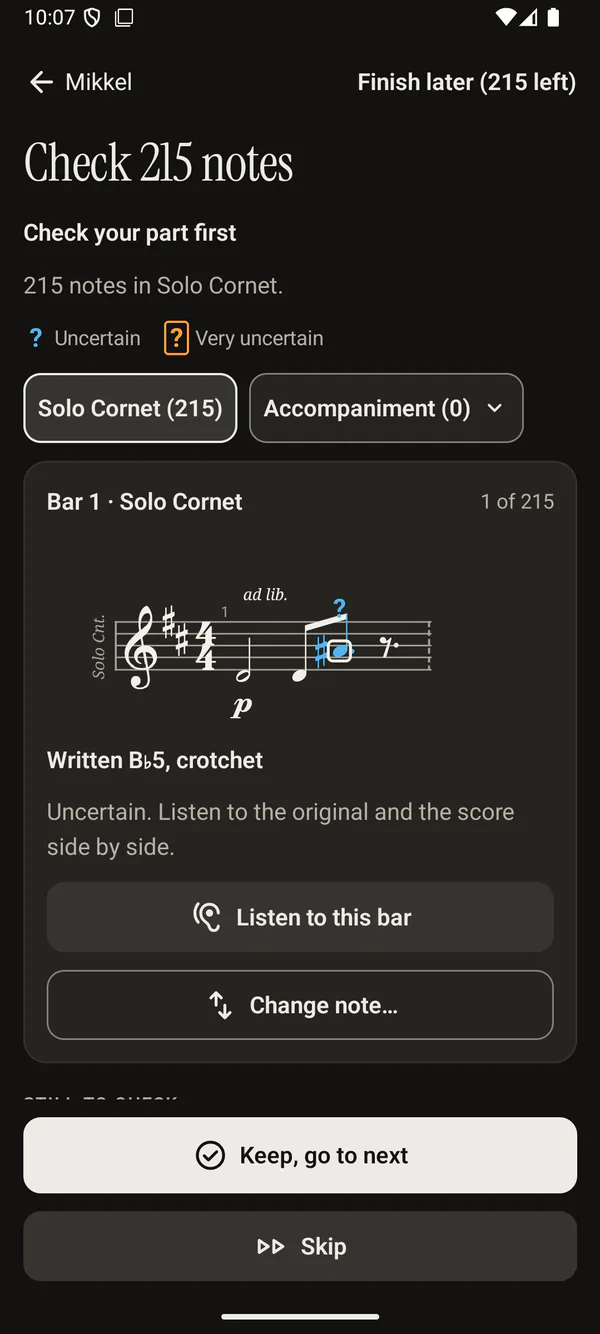
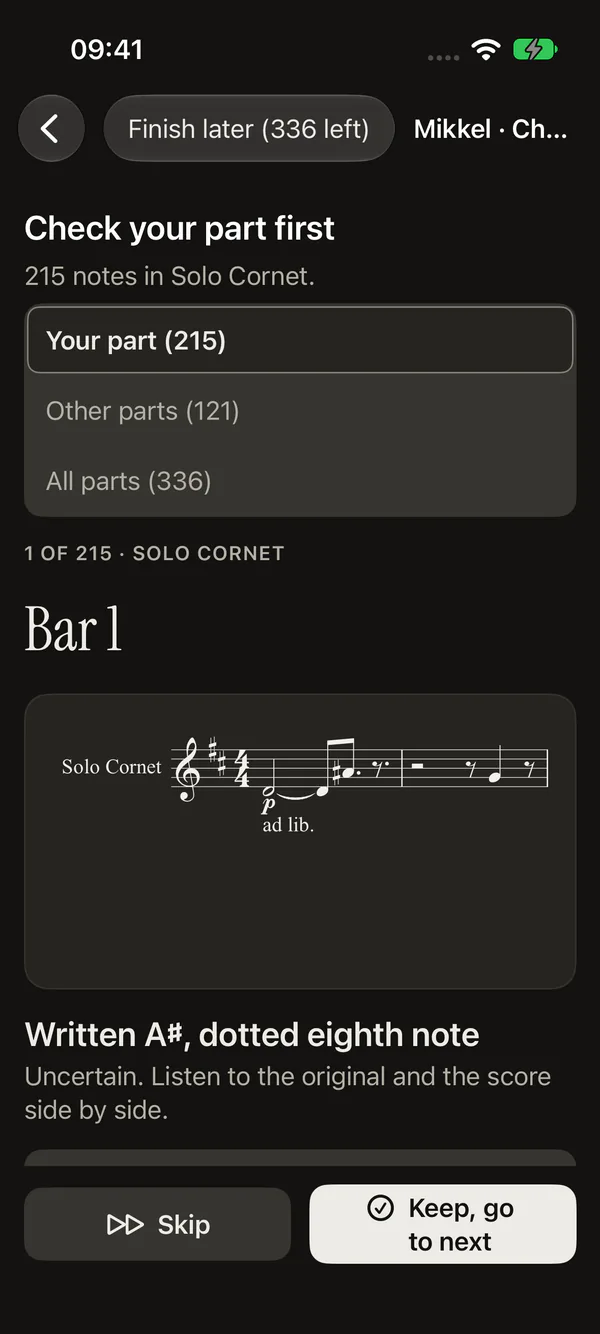
feat(site): use the restyled iPhone, iPad and macOS screenshots
The English phone story now shows iPhone, the practise section an iPad score
and the computer section the macOS window. Android keeps the Parts sheet and
the accessibility shots, and the Norwegian pages keep the Android nb shots.
shots.txt gains path variables and tablet and mac frame kinds; the macOS
capture keeps its transparent rounded corners.

diff --git a/site/index.html b/site/index.html
@@ -8,7 +8,7 @@
   <meta name="color-scheme" content="light dark">
   <meta property="og:title" content="Brasscribe Play">
   <meta property="og:description" content="A score for your band, from any recording.">
-  <meta property="og:image" content="assets/shots/computer-en-light.png">
+  <meta property="og:image" content="assets/shots/mac-score-en-light.png">
   <link rel="alternate" hreflang="en" href="./">
   <link rel="alternate" hreflang="nb" href="nb/">
   <link rel="alternate" hreflang="x-default" href="./">
@@ -63,14 +63,14 @@
           <picture>
             <source type="image/webp" media="(prefers-color-scheme: dark)" srcset="assets/shots/first-run-en-dark.webp">
             <source type="image/webp" srcset="assets/shots/first-run-en-light.webp">
-            <img src="assets/shots/first-run-en-light.png" width="600" height="1334" fetchpriority="high" alt="The first screen of the app: Scores for your band, from any recording. Three points: record or open a file, check the marked notes, practise with the band.">
+            <img src="assets/shots/first-run-en-light.png" width="600" height="1334" fetchpriority="high" alt="The first screen on iPhone: Scores for your band, from any recording. Three points: record or import, check the marked notes, practise with the band.">
           </picture>
         </div>
         <div class="device">
           <picture>
             <source type="image/webp" media="(prefers-color-scheme: dark)" srcset="assets/shots/score-en-dark.webp">
             <source type="image/webp" srcset="assets/shots/score-en-light.webp">
-            <img src="assets/shots/score-en-light.png" width="600" height="1334" alt="A brass band score on the phone, all parts, with the player below: Speed, Repeat, Count-in, Metronome and Mute my part.">
+            <img src="assets/shots/score-en-light.png" width="600" height="1334" alt="A brass band score on iPhone, all parts, with bars 12 to 13 repeating and the player below: Speed, Repeat, Count-in, Metronome, Mute my part and Recording.">
           </picture>
         </div>
       </div>
@@ -88,18 +88,18 @@
             <picture>
               <source type="image/webp" media="(prefers-color-scheme: dark)" srcset="assets/shots/home-en-dark.webp">
               <source type="image/webp" srcset="assets/shots/home-en-light.webp">
-              <img src="assets/shots/home-en-light.png" width="600" height="1334" loading="lazy" alt="Home: Open a recording, Record with the microphone, Record what's playing, Open a score and Try the demo.">
+              <img src="assets/shots/home-en-light.png" width="600" height="1334" loading="lazy" alt="Home on iPhone: Open a recording, Record with the microphone, Try the demo, and Your scores.">
             </picture>
           </div>
           <h3>Open or record</h3>
-          <p>Open a recording, record the rehearsal with the microphone, or open a score you already have. Or try the demo.</p>
+          <p>Open a recording you have, or record the rehearsal with the microphone. Or try the demo first.</p>
         </li>
         <li>
           <div class="device">
             <picture>
               <source type="image/webp" media="(prefers-color-scheme: dark)" srcset="assets/shots/what-is-this-en-dark.webp">
               <source type="image/webp" srcset="assets/shots/what-is-this-en-light.webp">
-              <img src="assets/shots/what-is-this-en-light.png" width="600" height="1334" loading="lazy" alt="What is this? Four choices: One instrument, Brass band, Soloist with orchestra or band, and Pop or rock, with where the score will be made below.">
+              <img src="assets/shots/what-is-this-en-light.png" width="600" height="1334" loading="lazy" alt="What is this? for a 4-minute recording, with four choices: One instrument, Brass band, Soloist with orchestra or band, and Pop or rock.">
             </picture>
           </div>
           <h3>What is this?</h3>
@@ -110,7 +110,7 @@
             <picture>
               <source type="image/webp" media="(prefers-color-scheme: dark)" srcset="assets/shots/making-en-dark.webp">
               <source type="image/webp" srcset="assets/shots/making-en-light.webp">
-              <img src="assets/shots/making-en-light.png" width="600" height="1334" loading="lazy" alt="Making the score: step 5 of 7, Writing down the notes, 36% and less than a minute left, with every step listed.">
+              <img src="assets/shots/making-en-light.png" width="600" height="1334" loading="lazy" alt="Making the score: step 4 of 6, Writing down the notes, 62% and about 2 minutes left, with every step listed.">
             </picture>
           </div>
           <h3>Making the score</h3>
@@ -121,7 +121,7 @@
             <picture>
               <source type="image/webp" media="(prefers-color-scheme: dark)" srcset="assets/shots/review-en-dark.webp">
               <source type="image/webp" srcset="assets/shots/review-en-light.webp">
-              <img src="assets/shots/review-en-light.png" width="600" height="1334" loading="lazy" alt="Check 215 notes, your part first: bar 1 of the Solo Cornet on a staff, written B flat 5, crotchet, uncertain. Buttons: Listen to this bar, Change note, Keep, go to next, and Skip.">
+              <img src="assets/shots/review-en-light.png" width="600" height="1334" loading="lazy" alt="Check your part first: your part, other parts or all parts. Bar 1 of the Solo Cornet on a staff, written A sharp, dotted eighth note, uncertain, with Skip and Keep, go to next.">
             </picture>
           </div>
           <h3>Check the notes</h3>
@@ -132,7 +132,7 @@
             <picture>
               <source type="image/webp" media="(prefers-color-scheme: dark)" srcset="assets/shots/output-en-dark.webp">
               <source type="image/webp" srcset="assets/shots/output-en-light.webp">
-              <img src="assets/shots/output-en-light.png" width="600" height="1334" loading="lazy" alt="How should the score be? Which band: Full brass band or Small band. How hard: Easier, A bit easier or As played. Key: C major, as recorded. Button: Show the score.">
+              <img src="assets/shots/output-en-light.png" width="600" height="1334" loading="lazy" alt="How should the score be? Which band: Full brass band or Small band. How hard: Easier, A bit easier or As played. Key: C major (concert), with Lower and Higher. Button: Show the score.">
             </picture>
           </div>
           <h3>How should the score be?</h3>
@@ -143,7 +143,7 @@
             <picture>
               <source type="image/webp" media="(prefers-color-scheme: dark)" srcset="assets/shots/part-en-dark.webp">
               <source type="image/webp" srcset="assets/shots/part-en-light.webp">
-              <img src="assets/shots/part-en-light.png" width="600" height="1334" loading="lazy" alt="The Solo Cornet part, as written for B flat, with question marks over uncertain notes and the player below.">
+              <img src="assets/shots/part-en-light.png" width="600" height="1334" loading="lazy" alt="The Solo Cornet part on iPhone, as written, with question marks over uncertain notes. Mute my part is on, and Recording switches to the original recording.">
             </picture>
           </div>
           <h3>Score and play along</h3>
@@ -154,7 +154,7 @@
             <picture>
               <source type="image/webp" media="(prefers-color-scheme: dark)" srcset="assets/shots/parts-en-dark.webp">
               <source type="image/webp" srcset="assets/shots/parts-en-light.webp">
-              <img src="assets/shots/parts-en-light.png" width="600" height="1334" loading="lazy" alt="The Parts sheet: All parts or My part, and Mute and Only this for every part.">
+              <img src="assets/shots/parts-en-light.png" width="600" height="1334" loading="lazy" alt="The Parts sheet on Android: All parts or My part, and Mute and Only this for every part.">
             </picture>
           </div>
           <h3>Your part</h3>
@@ -165,7 +165,7 @@
             <picture>
               <source type="image/webp" media="(prefers-color-scheme: dark)" srcset="assets/shots/share-en-dark.webp">
               <source type="image/webp" srcset="assets/shots/share-en-light.webp">
-              <img src="assets/shots/share-en-light.png" width="600" height="1334" loading="lazy" alt="Share or print. What: Solo Cornet (you), Every part or Conductor's score. Formats: PDF, MusicXML, Audio and more, with Print, Share and Save to Files.">
+              <img src="assets/shots/share-en-light.png" width="600" height="1334" loading="lazy" alt="Share or print on iPhone. What: My part (Solo Cornet), Every part or Conductor's score. As: PDF, Audio or more formats, with Show ? marks on. Print, Share and Save to Files.">
             </picture>
           </div>
           <h3>Share or print</h3>
@@ -182,26 +182,19 @@
         <h2 id="practise-title">Mute your part and <em>play along.</em></h2>
         <p>Every part plays back with brass sounds. Mute your own part and play it yourself, or hear one part alone.</p>
         <ul class="ticks">
-          <li><strong>Speed:</strong> anywhere from 25% to 150%, with 50%, 75% and 100% one tap away.</li>
-          <li><strong>Repeat bars</strong> 1 to 4 until the hard passage sits.</li>
+          <li><strong>Speed:</strong> anywhere from 25% to 150%.</li>
+          <li><strong>Repeat bars</strong> 12 to 13 until the hard passage sits.</li>
           <li><strong>Count-in</strong> and <strong>Metronome</strong> when you want them.</li>
           <li><strong>Mute my part</strong> so the band plays around you.</li>
           <li>On iPhone, iPad, Mac and Windows, switch to the <strong>original recording</strong> at the same place to check what the band really played.</li>
         </ul>
       </div>
-      <div class="phones">
-        <div class="device">
+      <div class="tablets">
+        <div class="device tablet">
           <picture>
-            <source type="image/webp" media="(prefers-color-scheme: dark)" srcset="assets/shots/speed-en-dark.webp">
-            <source type="image/webp" srcset="assets/shots/speed-en-light.webp">
-            <img src="assets/shots/speed-en-light.png" width="600" height="1334" loading="lazy" alt="The Speed sheet over the score: a slider at 100%, and buttons for 50%, 75% and 100%.">
-          </picture>
-        </div>
-        <div class="device">
-          <picture>
-            <source type="image/webp" media="(prefers-color-scheme: dark)" srcset="assets/shots/repeat-en-dark.webp">
-            <source type="image/webp" srcset="assets/shots/repeat-en-light.webp">
-            <img src="assets/shots/repeat-en-light.png" width="600" height="1334" loading="lazy" alt="The part while bars 1 to 4 repeat: the Repeat chip reads Repeating 1–4.">
+            <source type="image/webp" media="(prefers-color-scheme: dark)" srcset="assets/shots/practise-en-dark.webp">
+            <source type="image/webp" srcset="assets/shots/practise-en-light.webp">
+            <img src="assets/shots/practise-en-light.png" width="600" height="864" loading="lazy" alt="A brass band score on iPad with bars 12 to 13 repeating. The player below: Hear the band or Recording, Speed at 100%, Repeat bars 12 to 13 with Stop repeating, Count-in on, Metronome and Mute my part.">
           </picture>
         </div>
       </div>
@@ -281,17 +274,16 @@
         <h2 id="computer-title">Your phone, and <em>your computer.</em></h2>
         <p>Solos are made right on your phone. For a full brass band, Brasscribe on your computer does the heavy work and sends the score back to the phone over your home Wi-Fi.</p>
         <p>Open the app's settings and your computer shows up by itself. Type the six-digit code it shows, and you're connected.</p>
-        <p>On the computer itself, open any score in the browser to play it, loop bars, change the speed, and mute a part or hear one alone.</p>
+        <p>On a Mac, the whole band fits on the screen, with Mute and Only this for every part beside the score.</p>
         <div class="actions">
           <a class="button outline" href="guide/#computer">How to connect your computer</a>
         </div>
       </div>
-      <div class="window">
-        <div class="window-bar" aria-hidden="true"><i></i><i></i><i></i><span>Brasscribe Studio · Score viewer</span></div>
+      <div class="window native">
         <picture>
-          <source type="image/webp" media="(prefers-color-scheme: dark)" srcset="assets/shots/computer-en-dark.webp">
-          <source type="image/webp" srcset="assets/shots/computer-en-light.webp">
-          <img src="assets/shots/computer-en-light.png" width="1440" height="900" loading="lazy" alt="A brass band score on a computer, with Play, Repeat bars, Speed and a parts menu above the full score.">
+          <source type="image/webp" media="(prefers-color-scheme: dark)" srcset="assets/shots/mac-score-en-dark.webp">
+          <source type="image/webp" srcset="assets/shots/mac-score-en-light.webp">
+          <img src="assets/shots/mac-score-en-light.png" width="1440" height="828" loading="lazy" alt="Brasscribe Play on a Mac: the full score with bars 12 to 13 repeating, the player below with Hear the band or Recording, and every part with Mute and Only this on the right.">
         </picture>
       </div>
     </div>

diff --git a/site/guide/index.html b/site/guide/index.html
@@ -74,7 +74,7 @@
           <picture>
             <source type="image/webp" media="(prefers-color-scheme: dark)" srcset="../assets/shots/home-en-dark.webp">
             <source type="image/webp" srcset="../assets/shots/home-en-light.webp">
-            <img src="../assets/shots/home-en-light.png" width="600" height="1334" loading="lazy" alt="Home: Open a recording, Record with the microphone, Record what's playing, Open a score and Try the demo.">
+            <img src="../assets/shots/home-en-light.png" width="600" height="1334" loading="lazy" alt="Home on iPhone: Open a recording, Record with the microphone, Try the demo, and Your scores.">
           </picture>
         </div>
       </figure>
@@ -95,7 +95,7 @@
           <picture>
             <source type="image/webp" media="(prefers-color-scheme: dark)" srcset="../assets/shots/what-is-this-en-dark.webp">
             <source type="image/webp" srcset="../assets/shots/what-is-this-en-light.webp">
-            <img src="../assets/shots/what-is-this-en-light.png" width="600" height="1334" loading="lazy" alt="What is this? with its four choices, and where the score will be made.">
+            <img src="../assets/shots/what-is-this-en-light.png" width="600" height="1334" loading="lazy" alt="What is this? for a 4-minute recording, with its four choices.">
           </picture>
         </div>
       </figure>
@@ -122,7 +122,7 @@
           <picture>
             <source type="image/webp" media="(prefers-color-scheme: dark)" srcset="../assets/shots/making-en-dark.webp">
             <source type="image/webp" srcset="../assets/shots/making-en-light.webp">
-            <img src="../assets/shots/making-en-light.png" width="600" height="1334" loading="lazy" alt="Making the score: the current step as a heading, the percentage, the time left and a list of all steps.">
+            <img src="../assets/shots/making-en-light.png" width="600" height="1334" loading="lazy" alt="Making the score: the current step as a heading, the percentage, the time left, a list of all steps, and Cancel.">
           </picture>
         </div>
       </figure>
@@ -137,7 +137,7 @@
           <picture>
             <source type="image/webp" media="(prefers-color-scheme: dark)" srcset="../assets/shots/review-en-dark.webp">
             <source type="image/webp" srcset="../assets/shots/review-en-light.webp">
-            <img src="../assets/shots/review-en-light.png" width="600" height="1334" loading="lazy" alt="Checking one uncertain note: the bar on a staff, the part and the written note, with Listen to this bar, Change note, Keep, go to next, and Skip.">
+            <img src="../assets/shots/review-en-light.png" width="600" height="1334" loading="lazy" alt="Checking one uncertain note, your part first: bar 1 of the Solo Cornet on a staff and the written note, with Skip and Keep, go to next.">
           </picture>
         </div>
       </figure>
@@ -183,14 +183,14 @@
           <picture>
             <source type="image/webp" media="(prefers-color-scheme: dark)" srcset="../assets/shots/score-en-dark.webp">
             <source type="image/webp" srcset="../assets/shots/score-en-light.webp">
-            <img src="../assets/shots/score-en-light.png" width="600" height="1334" loading="lazy" alt="The full score on a phone, with the part picker and As written or Concert pitch above, and the player below.">
+            <img src="../assets/shots/score-en-light.png" width="600" height="1334" loading="lazy" alt="The full score on iPhone with bars 12 to 13 repeating: All parts, As written or Concert above, and the player below with Speed, Repeat, Count-in, Metronome, Mute my part and Recording.">
           </picture>
         </div>
         <div class="device">
           <picture>
-            <source type="image/webp" media="(prefers-color-scheme: dark)" srcset="../assets/shots/parts-en-dark.webp">
-            <source type="image/webp" srcset="../assets/shots/parts-en-light.webp">
-            <img src="../assets/shots/parts-en-light.png" width="600" height="1334" loading="lazy" alt="The Parts sheet: All parts or My part, and Mute and Only this for every part.">
+            <source type="image/webp" media="(prefers-color-scheme: dark)" srcset="../assets/shots/part-en-dark.webp">
+            <source type="image/webp" srcset="../assets/shots/part-en-light.webp">
+            <img src="../assets/shots/part-en-light.png" width="600" height="1334" loading="lazy" alt="The Solo Cornet part on iPhone, with Mute my part on.">
           </picture>
         </div>
       </figure>
@@ -219,7 +219,7 @@
           <picture>
             <source type="image/webp" media="(prefers-color-scheme: dark)" srcset="../assets/shots/share-en-dark.webp">
             <source type="image/webp" srcset="../assets/shots/share-en-light.webp">
-            <img src="../assets/shots/share-en-light.png" width="600" height="1334" loading="lazy" alt="Share or print: Solo Cornet (you), Every part or Conductor's score, then the formats, with Print, Share and Save to Files.">
+            <img src="../assets/shots/share-en-light.png" width="600" height="1334" loading="lazy" alt="Share or print on iPhone: My part (Solo Cornet), Every part or Conductor's score, then PDF, Audio or more formats, Show ? marks, and Print, Share and Save to Files.">
           </picture>
         </div>
       </figure>

diff --git a/site/site.css b/site/site.css
@@ -120,6 +120,10 @@ section + section { border-top: 1px solid var(--bc-border); }
 .phones { display: flex; gap: var(--bc-space-6); justify-content: center; align-items: flex-start; }
 .phones .device { width: 46%; max-width: 280px; }
 .phones .device:nth-child(2) { margin-top: var(--bc-space-12); }
+.device.tablet { padding: 2.6%; border-radius: 6.5% / 4.6%; }
+.device.tablet img { aspect-ratio: 600 / 864; border-radius: 4.2% / 2.9%; }
+.tablets { display: flex; justify-content: center; }
+.tablets .device { max-width: 440px; }
 
 .window {
   border-radius: var(--bc-radius-lg); overflow: hidden;
@@ -135,6 +139,9 @@ section + section { border-top: 1px solid var(--bc-border); }
 .window-bar span { flex: 1; text-align: center; margin-right: 44px; overflow: hidden; text-overflow: ellipsis; }
 .window img { width: 100%; height: auto; aspect-ratio: 16 / 10; object-fit: cover; object-position: top left; }
 .studio-shot { margin: var(--bc-space-10) 0 0; }
+/* A macOS capture brings its own title bar and rounded corners. */
+.window.native { border: 0; background: none; box-shadow: none; overflow: visible; }
+.window.native img { aspect-ratio: auto; border-radius: 1.3% / 2.2%; box-shadow: 0 0 0 1px var(--bc-border-strong), var(--bc-elevation-3); }
 
 /* How it works: one phone per step */
 .flow {

diff --git a/site/make_shots.py b/site/make_shots.py
@@ -1,7 +1,7 @@
 """Make the site's screenshots from the apps' own screenshots, as listed in site/shots.txt.
 
-Each source is cropped to its frame's ratio (phones 9:20 from the top, desktops 16:10 from the
-top), scaled to twice its largest display size, then written as WebP, plus a quantised PNG for
+Each source is cropped to its frame's ratio (see SIZES; too tall keeps the top, too wide keeps the
+middle), scaled to twice its largest display size, then written as WebP, plus a quantised PNG for
 light variants (the <img> fallback). Needs cwebp and pngquant on PATH.
 Usage: uv run --with pillow python site/make_shots.py
 """
@@ -16,7 +16,7 @@ from PIL import Image
 
 ROOT = Path(__file__).resolve().parent.parent
 OUT = ROOT / "site" / "shots"
-SIZES = {"phone": (600, 1334), "desktop": (1440, 900)}
+SIZES = {"phone": (600, 1334), "tablet": (600, 864), "desktop": (1440, 900), "mac": (1440, 828)}
 LIMIT = 250 * 1024
 
 
@@ -44,11 +44,18 @@ def main() -> int:
     if OUT.exists():
         shutil.rmtree(OUT)
     OUT.mkdir(parents=True)
-    rows = [
-        line.split()
-        for line in (ROOT / "site" / "shots.txt").read_text().splitlines()
-        if line.strip() and not line.startswith("#")
-    ]
+    rows, names = [], {}
+    for line in (ROOT / "site" / "shots.txt").read_text().splitlines():
+        if not line.strip() or line.startswith("#"):
+            continue
+        if "=" in line and " " not in line.strip():  # NAME=path, used as $NAME below
+            key, value = line.strip().split("=", 1)
+            names[key] = value
+            continue
+        cols = line.split()
+        for key, value in names.items():
+            cols = [c.replace(f"${key}", value) for c in cols]
+        rows.append(cols)
     tmp = Path(tempfile.mkdtemp())
     for slot, kind, *srcs in rows:
         w, h = SIZES[kind]
@@ -58,7 +65,8 @@ def main() -> int:
             if src == "-":
                 continue
             name = f"{slot}-{lang}-{theme}"
-            img = crop_to(Image.open(ROOT / src).convert("RGB"), w, h)
+            # A macOS window capture has transparent rounded corners: keep them.
+            img = crop_to(Image.open(ROOT / src).convert("RGBA" if kind == "mac" else "RGB"), w, h)
             png = tmp / f"{name}.png"
             img.save(png)
             run("cwebp", "-quiet", "-q", "82", "-m", "6", "-sharp_yuv", str(png), "-o", str(OUT / f"{name}.webp"))
